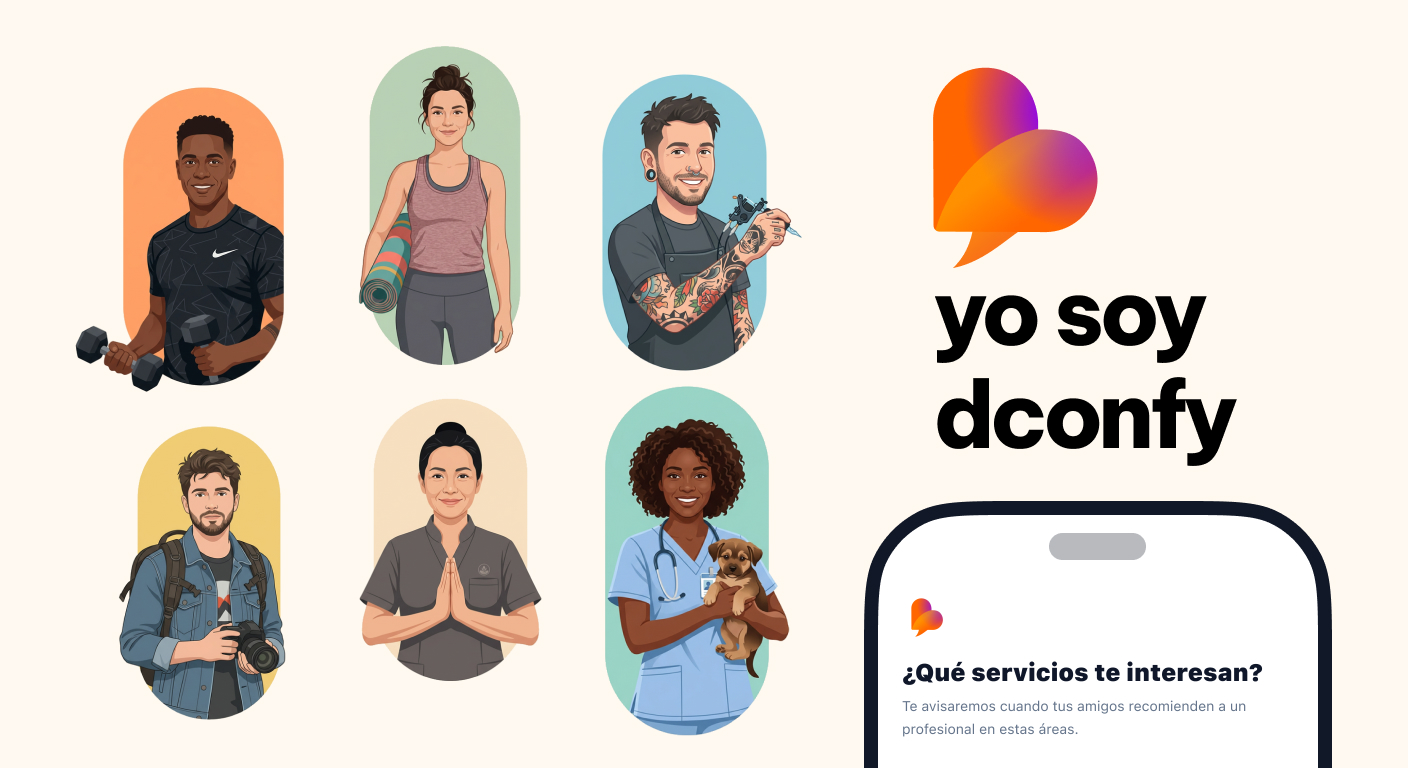
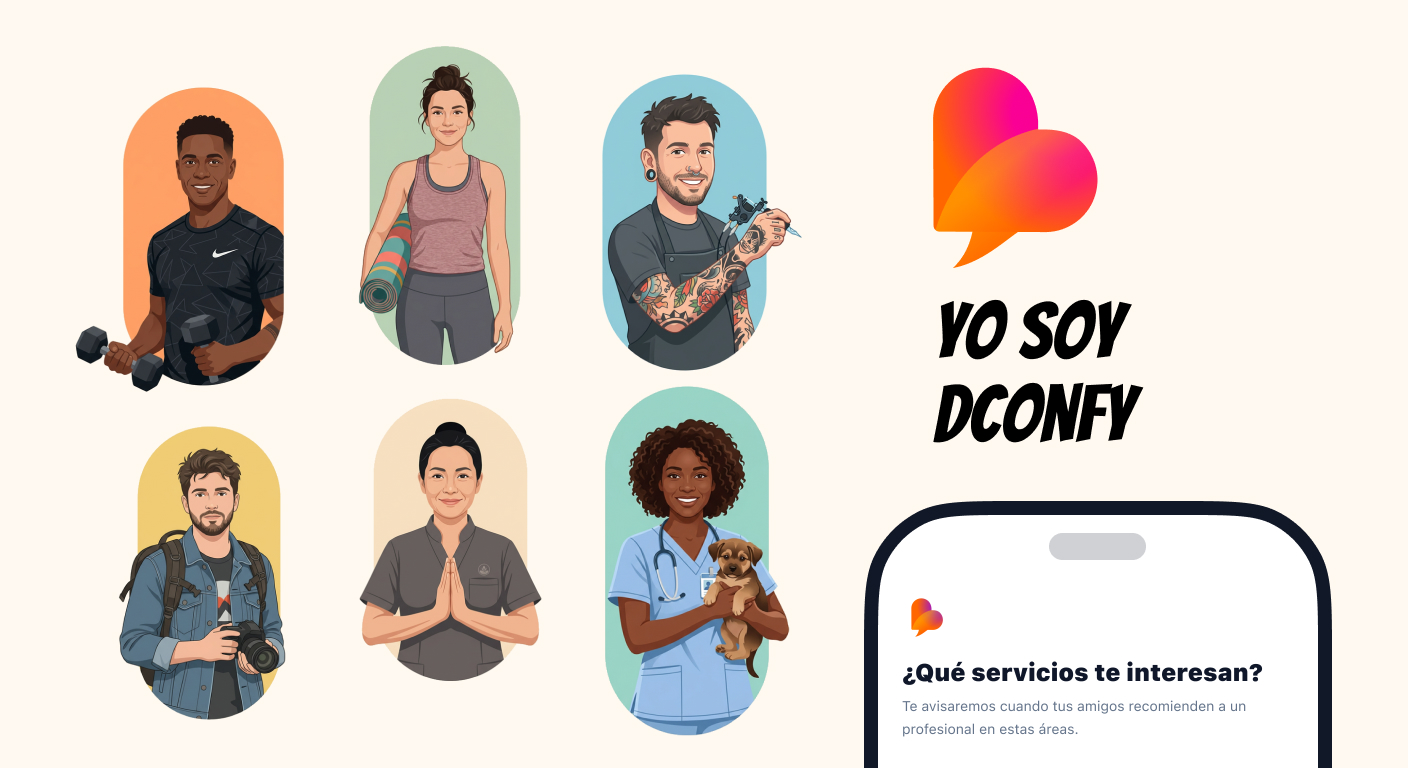
style: change intro heading color to violet-700 in page.tsx

Changed region(s): [[0.6562, 0.375, 0.875, 0.625], [0.6562, 0.0625, 0.7812, 0.3125]]

diff --git a/src/app/page.tsx b/src/app/page.tsx
@@ -445,7 +445,7 @@ export default function Home() {
             viewport={{ once: true, amount: 0.5 }}
             className="my-48 md:my-64 max-w-3xl mx-auto bg-white py-16 px-10 md:py-24 md:px-16 rounded-[2.5rem]"
           >
-            <h2 className="text-4xl md:text-5xl font-black text-fuchsia-700 leading-tight [-webkit-text-stroke:0]">
+            <h2 className="text-4xl md:text-5xl font-black text-violet-700 leading-tight [-webkit-text-stroke:0]">
               Recomiéndame un fisio, un nutricionista, un masajista... <br></br><br></br>"Te paso el teléfono de mi fontanero", "Hay una peluquería que te va a gustar"...
             </h2>
           </motion.div>